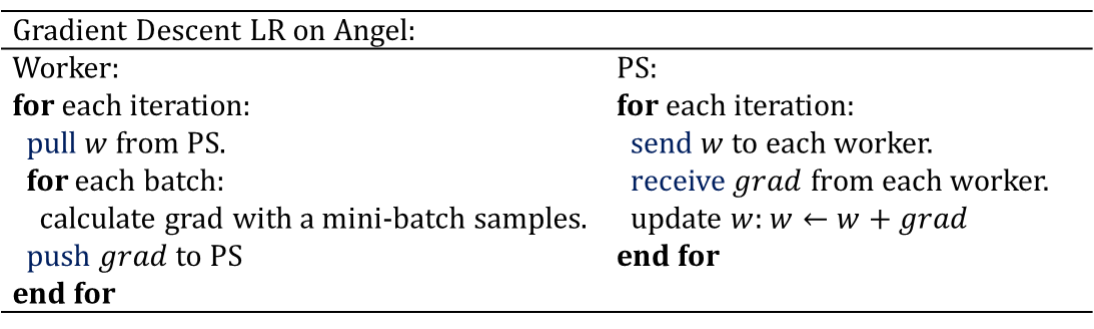
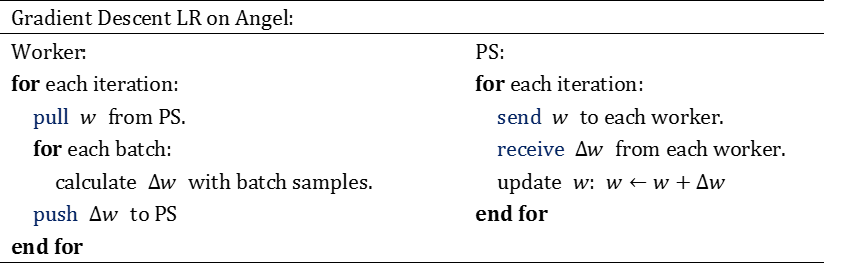
[DOCS] improve LR document

diff --git a/docs/algo/lr_on_angel.md b/docs/algo/lr_on_angel.md
@@ -20,13 +20,20 @@
 其中：![](../img/LR_reg.gif)为L2正则项。
 
 ## 2. 分布式实现 on Angel
-
-* Angel MLLib提供了用mini-batch gradient descent优化方法求解的Logistic Regression算法，算法逻辑如下 
-
+1. 模型存储
+LR算法的模型可以抽象为一个1×N维的PSModel，记为w，PS接收到模型的更新值△w，更新w：![](../img/lr_update.png)，如下图所示：
+![](../img/lr_model.png)
+2. 算法逻辑
+Angel MLLib提供了用mini-batch gradient descent优化方法求解的Logistic Regression算法。
+* worker：
+每次迭代，worker从PS拉取最新的w，用mini-batch gradient descent方法计算模型的更新值△w，将更新值△w推送给PS。
+* PS：
+每次迭代，PS接收到所有worker推送的更新值△w，取平均后叠加到w，得到新的模型。
 ![](../img/LR_gd.png)  
 
 
-* 学习速率在迭代过程中衰减:![](../img/LR_lr_ecay.gif) 其中:   
+* 衰减的学习速率
+学习速率在迭代过程中衰减:![](../img/LR_lr_ecay.gif) 其中:   
 	* α为衰减系数
 	* T为迭代次数
 
